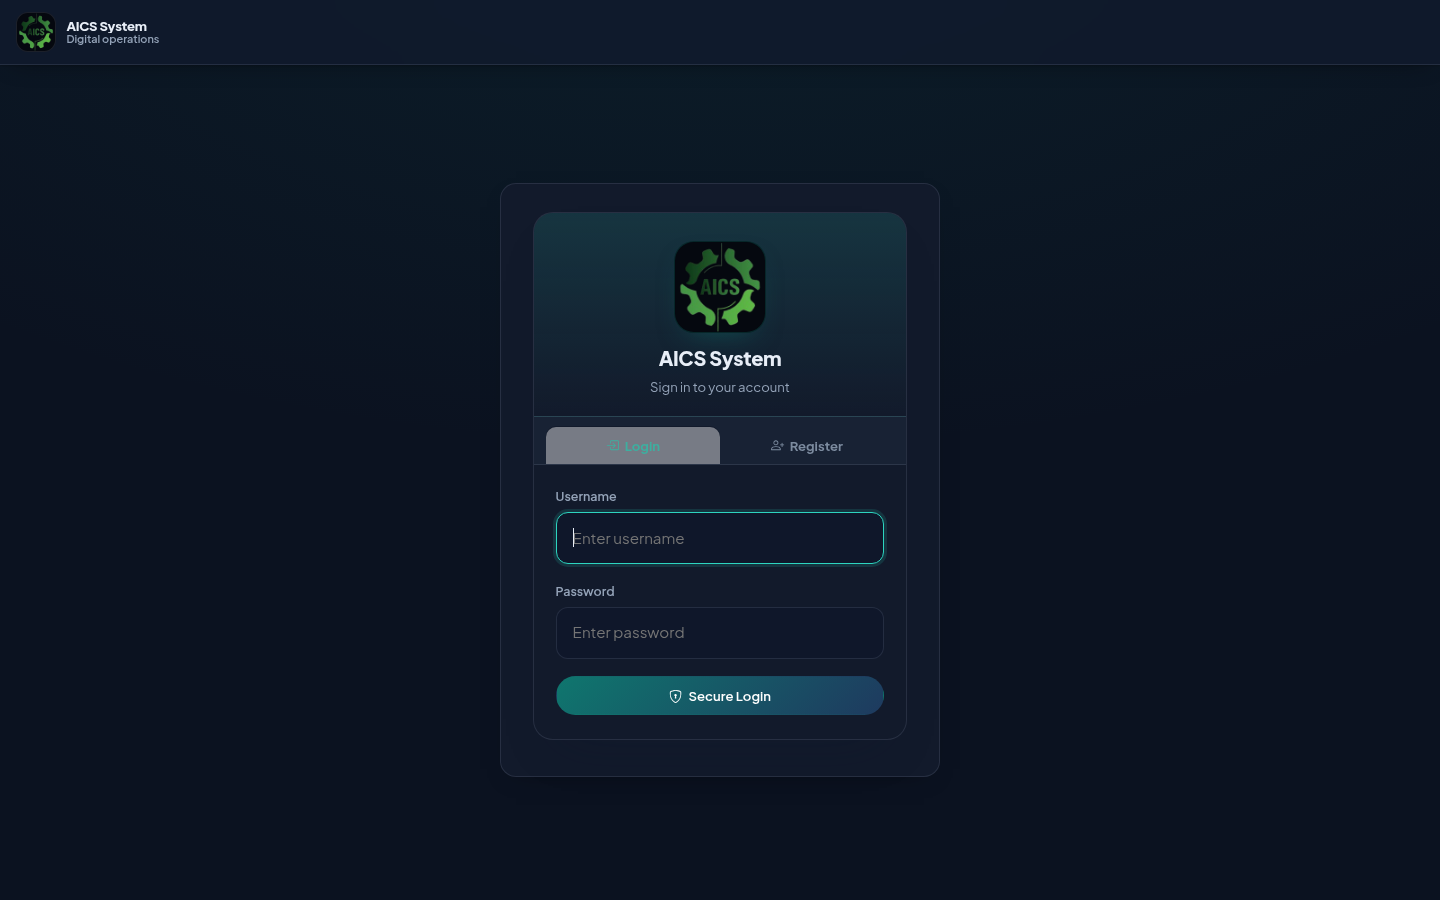
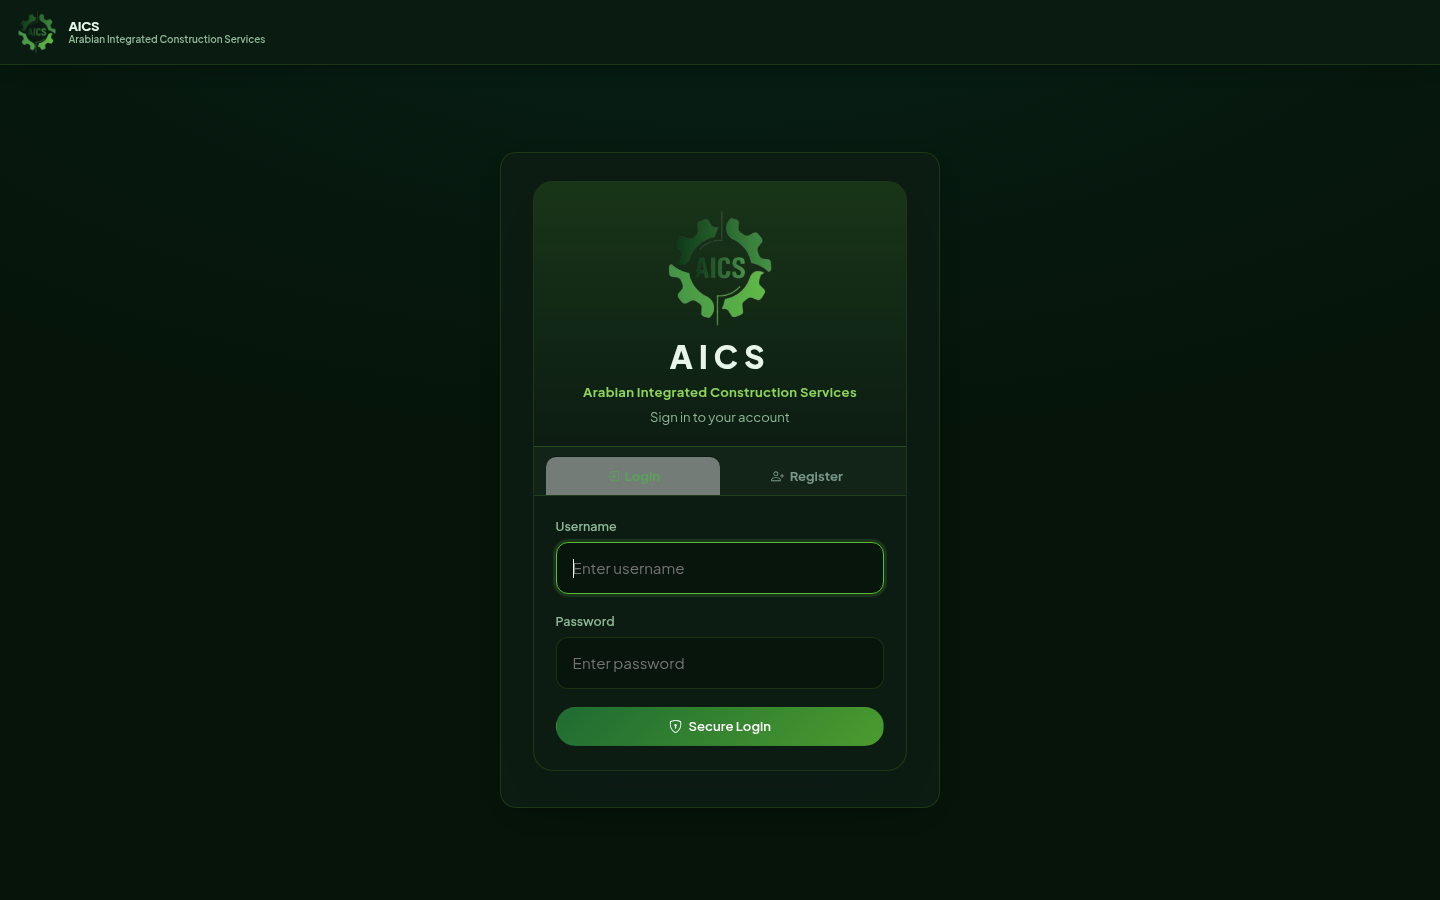
Match the presentation to AICS green and company name
Use the live login shot, transparent logo, and Arabian Integrated Construction Services wording on the cinematic deck.

Changed region(s): [[0.3438, 0.1867, 0.6562, 0.8711], [0.0, 0.0, 1.0, 0.0933], [0.375, 0.8711, 0.625, 0.9022]]

diff --git a/presentation/src/index.css b/presentation/src/index.css
@@ -1,18 +1,18 @@
 :root {
-  --bg: #05080f;
-  --bg-2: #0b1220;
-  --surface: rgba(18, 26, 43, 0.72);
-  --text: #eef3f8;
-  --muted: #8b9bb0;
-  --dim: #5b6b80;
-  --accent: #2dd4bf;
-  --accent-2: #5eead4;
-  --deep: #0f766e;
-  --navy: #1e3a5f;
-  --line: rgba(148, 163, 184, 0.16);
+  --bg: #06140a;
+  --bg-2: #0c1c12;
+  --surface: rgba(12, 28, 18, 0.78);
+  --text: #e8f6ea;
+  --muted: #8fb896;
+  --dim: #5f7d64;
+  --accent: #5cb83a;
+  --accent-2: #8fd45a;
+  --deep: #1f6b32;
+  --navy: #122418;
+  --line: rgba(111, 191, 58, 0.18);
   --danger: #fb923c;
   --warn: #fbbf24;
-  --ok: #34d399;
+  --ok: #4ade80;
   --font: "Plus Jakarta Sans", "Noto Sans Arabic", system-ui, sans-serif;
   --ease: cubic-bezier(0.22, 1, 0.36, 1);
 }
@@ -25,8 +25,8 @@ body { overflow: hidden; -webkit-font-smoothing: antialiased; }
   height: 100%;
   position: relative;
   background:
-    radial-gradient(1200px 600px at 12% -10%, rgba(15, 118, 110, 0.16), transparent 50%),
-    radial-gradient(900px 500px at 100% 0%, rgba(30, 58, 95, 0.22), transparent 46%),
+    radial-gradient(1200px 600px at 12% -10%, rgba(92, 184, 58, 0.16), transparent 50%),
+    radial-gradient(900px 500px at 100% 0%, rgba(31, 107, 50, 0.20), transparent 46%),
     var(--bg);
   transition: background 800ms var(--ease);
 }

diff --git a/presentation/src/sections/Chapters.tsx b/presentation/src/sections/Chapters.tsx
@@ -114,14 +114,14 @@ export function Ch04({ on: _on }: P) {
         <h2 className="display">One platform.</h2>
       </Reveal>
       <Reveal delay={0.7}>
-        <p className="lede">The live AICS operating environment — not a mockup of a future product.</p>
+        <p className="lede">AICS — Arabian Integrated Construction Services. The live operating environment, not a mockup.</p>
         <div style={{ marginTop: 10 }}>
           <Tag kind="live">QR terminal, inventory, projects, QC, timesheet, roles</Tag>
         </div>
       </Reveal>
       <Reveal delay={1.1}>
         <div className="reveal-frame">
-          <img src={`${import.meta.env.BASE_URL}ui-login-aics.png`} alt="Live AICS System login" />
+          <img src={`${import.meta.env.BASE_URL}ui-login-aics.png`} alt="Live AICS login" />
         </div>
       </Reveal>
       <Stagger className="pills" step={0.09} delay={1.6}>

diff --git a/presentation/index.html b/presentation/index.html
@@ -4,7 +4,7 @@
     <meta charset="UTF-8" />
     <link rel="icon" type="image/png" href="/presentation/aics-logo.png" />
     <meta name="viewport" content="width=device-width, initial-scale=1.0" />
-    <meta name="theme-color" content="#05080f" />
+    <meta name="theme-color" content="#06140a" />
     <title>AICS · From the Warehouse to the CEO</title>
     <link rel="preconnect" href="https://fonts.googleapis.com" />
     <link rel="preconnect" href="https://fonts.gstatic.com" crossorigin />

diff --git a/presentation/src/App.tsx b/presentation/src/App.tsx
@@ -74,7 +74,7 @@ export default function App() {
         <div className="topbar">
           <div className="mark">
             <img src={`${import.meta.env.BASE_URL}aics-logo.png`} alt="AICS" />
-            <span>From the warehouse to the CEO</span>
+            <span>AICS · Arabian Integrated Construction Services</span>
           </div>
           <div className="actions">
             <button className="icon-btn" title="Fullscreen (F)" onClick={toggleFs}>

diff --git a/presentation/src/components/Bits.tsx b/presentation/src/components/Bits.tsx
@@ -129,8 +129,8 @@ export function ProductShell() {
         <div className="brand-row">
           <img src={`${import.meta.env.BASE_URL}aics-logo.png`} alt="" />
           <div>
-            <strong>AICS System</strong>
-            <small>Digital operations</small>
+            <strong>AICS</strong>
+            <small>Arabian Integrated Construction Services</small>
           </div>
         </div>
         {[
